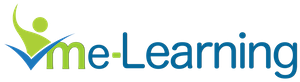
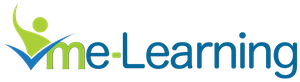
hacking.  Getting app to flow as it should.  course management page tweaking.

Changed region(s): [[0.27, 0.5122, 0.39, 0.8537]]

diff --git a/app/assets/stylesheets/bootstrap_and_overrides.css.less b/app/assets/stylesheets/bootstrap_and_overrides.css.less
@@ -26,4 +26,4 @@ body { padding-top: 0px; }
 // See http://twitter.github.com/bootstrap/less.html for their names and documentation
 //
 // Example:
-@linkColor: #1085E1;
+@linkColor: #29B6E1;

diff --git a/app/controllers/courses_controller.rb b/app/controllers/courses_controller.rb
@@ -1,5 +1,5 @@
 class CoursesController < ApplicationController
-  before_filter :require_owner, :only =>[:edit, :update, :destroy]
+  before_filter :require_owner, :only =>[:edit, :update, :destroy, :plan, :details, :publish_course, :update_description]
   before_filter :authenticate_user!, :except =>[:index, :hals, :show]
 
 
@@ -40,6 +40,39 @@ class CoursesController < ApplicationController
     end
   end
   
+  # owner edits plan
+  def plan
+    @course = Course.find(params[:id])    
+    @activity = Activity.find_by_id(params[:activity_id])
+    @activity = @course.strategy.activities.first if !@activity
+  end
+
+  # owner edits plan
+  def details
+    @course = Course.find(params[:id])    
+  end
+
+
+  # owner edits overview
+  def overview
+    @course = Course.find(params[:id])
+  end
+  
+  # owner publishes their course
+  def publish_course
+    @course = Course.find(params[:id])
+    @course.published = true
+    respond_to do |format|
+      if @course.save
+        format.html { redirect_to :back, notice: 'Your course is now published.' }
+      else
+        format.html { redirect_to :back, notice: 'Something went kaboom' }
+      end
+    end
+    
+  end
+  
+  
   def join
     @course = Course.find(params[:id])
     @course.add_user_to_course(current_user)
@@ -73,13 +106,6 @@ class CoursesController < ApplicationController
   end
 
 
-  # GET /courses/1/edit
-  def edit    
-    @course = Course.find(params[:id])
-    if (@course.user != current_user)
-      redirect_to @course, notice: 'Not yours.  Pas touche.'      
-    end
-  end
 
   # POST /courses
   # POST /courses.json
@@ -89,7 +115,7 @@ class CoursesController < ApplicationController
 
     respond_to do |format|
       if @course.save
-        format.html { redirect_to @course, notice: 'Course was successfully created.' }
+        format.html { redirect_to course_plan_path(@course), notice: 'Course was successfully created.' }
         format.json { render json: @course, status: :created, location: @course }
       else
         format.html { render action: "new" }
@@ -105,10 +131,22 @@ class CoursesController < ApplicationController
 
     respond_to do |format|
       if @course.update_attributes(params[:course])
-        format.html { redirect_to @course, notice: 'Course was successfully updated.' }
+          format.html { redirect_to course_overview_path(@course), notice: 'Course was successfully updated.' }
         format.json { head :no_content }
       else
-        format.html { render action: "edit" }
+        format.html { render action: "edit", notice: 'Course was databasely challenged.'  }
+        format.json { render json: @course.errors, status: :unprocessable_entity }
+      end
+    end
+  end
+  
+  def update_description
+    @course = Course.find(params[:id])
+    respond_to do |format|
+      if @course.update_attributes(params[:course])
+          format.html { redirect_to course_details_path(@course), notice: 'Course Description was successfully updated.' }
+      else
+        format.html { render action: "course_details" }
         format.json { render json: @course.errors, status: :unprocessable_entity }
       end
     end

diff --git a/db/schema.rb b/db/schema.rb
@@ -11,7 +11,7 @@
 #
 # It's strongly recommended to check this file into your version control system.
 
-ActiveRecord::Schema.define(:version => 20140129042306) do
+ActiveRecord::Schema.define(:version => 20140201052006) do
 
   create_table "action_logs", :force => true do |t|
     t.integer  "user_id"
@@ -102,13 +102,18 @@ ActiveRecord::Schema.define(:version => 20140129042306) do
   create_table "courses", :force => true do |t|
     t.string   "name"
     t.integer  "user_id"
-    t.datetime "created_at",                          :null => false
-    t.datetime "updated_at",                          :null => false
+    t.datetime "created_at",                                   :null => false
+    t.datetime "updated_at",                                   :null => false
     t.text     "description"
     t.text     "about_the_author"
     t.text     "overview"
-    t.boolean  "published",        :default => false
+    t.boolean  "published",                 :default => false
     t.datetime "deleted_at"
+    t.string   "course_image_file_name"
+    t.string   "course_image_content_type"
+    t.integer  "course_image_file_size"
+    t.datetime "course_image_updated_at"
+    t.string   "external_site"
   end
 
   create_table "goals", :force => true do |t|

diff --git a/app/controllers/activities_controller.rb b/app/controllers/activities_controller.rb
@@ -90,7 +90,7 @@ class ActivitiesController < ApplicationController
     respond_to do |format|
       if @activity.save
         if course_id
-          format.html { redirect_to course_path(course_id), notice: 'Activity was successfully created.' }
+          format.html { redirect_to course_plan_path(course_id), notice: 'Activity was successfully created.' }
         elsif params[:seq_activity]
           format.html { redirect_to activity_sequence_path(@activity.activity_sequence_id), notice: 'Activity was successfully created.' }          
         else
@@ -115,7 +115,7 @@ class ActivitiesController < ApplicationController
           format.html { redirect_to mypd_path(@activity), notice: 'Activity was successfully updated.' }
           format.json { head :no_content }
         elsif @activity.course_activity?
-          format.html { redirect_to @activity.strategy.course, notice: 'Activity was successfully updated.' }
+          format.html { redirect_to course_plan_path(@activity.strategy.course), notice: 'Activity was successfully created.' }
           format.json { head :no_content }          
         else 
           format.html { redirect_to root_path, notice: 'Activity was successfully updated.' }

diff --git a/config/routes.rb b/config/routes.rb
@@ -39,6 +39,12 @@ Opp::Application.routes.draw do
 
   get "courses/new", to: 'courses#new', as: 'create_course'
   get "courses/my_created", to: 'courses#my_created', as: 'my_created_courses'
+  get "courses/plan/:id(/:activity_id)", to: 'courses#plan', as: 'course_plan'
+  get "courses/description/:id", to: 'courses#description', as: 'course_description'
+  get "courses/overview/:id", to: 'courses#overview', as: 'course_overview'
+  get "courses/update_description/:id", to: 'courses#update_description', as: 'update_description'
+  get "courses/publish_course/:id", to: 'courses#publish_course', as: 'publish_course'
+  
 
   match "share_course_on_fb/:id", to: "courses#share_course_on_fb", as: "share_course_on_fb"
 

diff --git a/app/models/course.rb b/app/models/course.rb
@@ -21,11 +21,14 @@ class Course < ActiveRecord::Base
                   :description,
                   :overview,
                   :about_the_author,
-                  :published
+                  :published,
+                  :external_site,
+                  :course_image
+     has_attached_file :course_image, :styles => { :medium => "200x200>", :thumb => "100x100>" }, :default_url => "/images/:style/missing.png"
                   
-    validates_presence_of :name, :overview
-    
-    after_create :create_strategy   
+  validates_presence_of :name, :overview
+
+  after_create :create_strategy   
 
   # text used for updates
   def text

diff --git a/app/controllers/application_controller.rb b/app/controllers/application_controller.rb
@@ -9,7 +9,7 @@ class ApplicationController < ActionController::Base
   # used in before filter to make sure object can be viewed/modified by current user
   def require_owner
       object = controller_name.classify.constantize.find_by_id(params[:id])
-      puts object.inspect
+      # puts object.inspect
       unless current_user && object.user_id == current_user.id
         respond_to do |format|
           format.html { render :text => "Not Allowed", :status => :forbidden }

diff --git a/app/models/action_log.rb b/app/models/action_log.rb
@@ -27,7 +27,7 @@ class ActionLog < ActiveRecord::Base
   def self.latest(user, qty = 10)
     #  get list of course owners user is following
     following_courses = user.get_following_courses
-    puts following_courses.to_yaml
+    # puts following_courses.to_yaml
     course_owners_id_list = []
     following_courses.each {|course| course_owners_id_list.push(course.user_id)
       # puts "course: " + course.to_yaml

diff --git a/db/migrate/20140201052006_add_pic_to_course.rb b/db/migrate/20140201052006_add_pic_to_course.rb
@@ -1,0 +1,11 @@
+class AddPicToCourse < ActiveRecord::Migration
+    def self.up
+      add_attachment :courses, :course_image
+      add_column :courses, :external_site, :string
+    end
+
+    def self.down
+      remove_attachment :courses, :course_image
+      remove_column :courses, :external_site
+    end
+end
